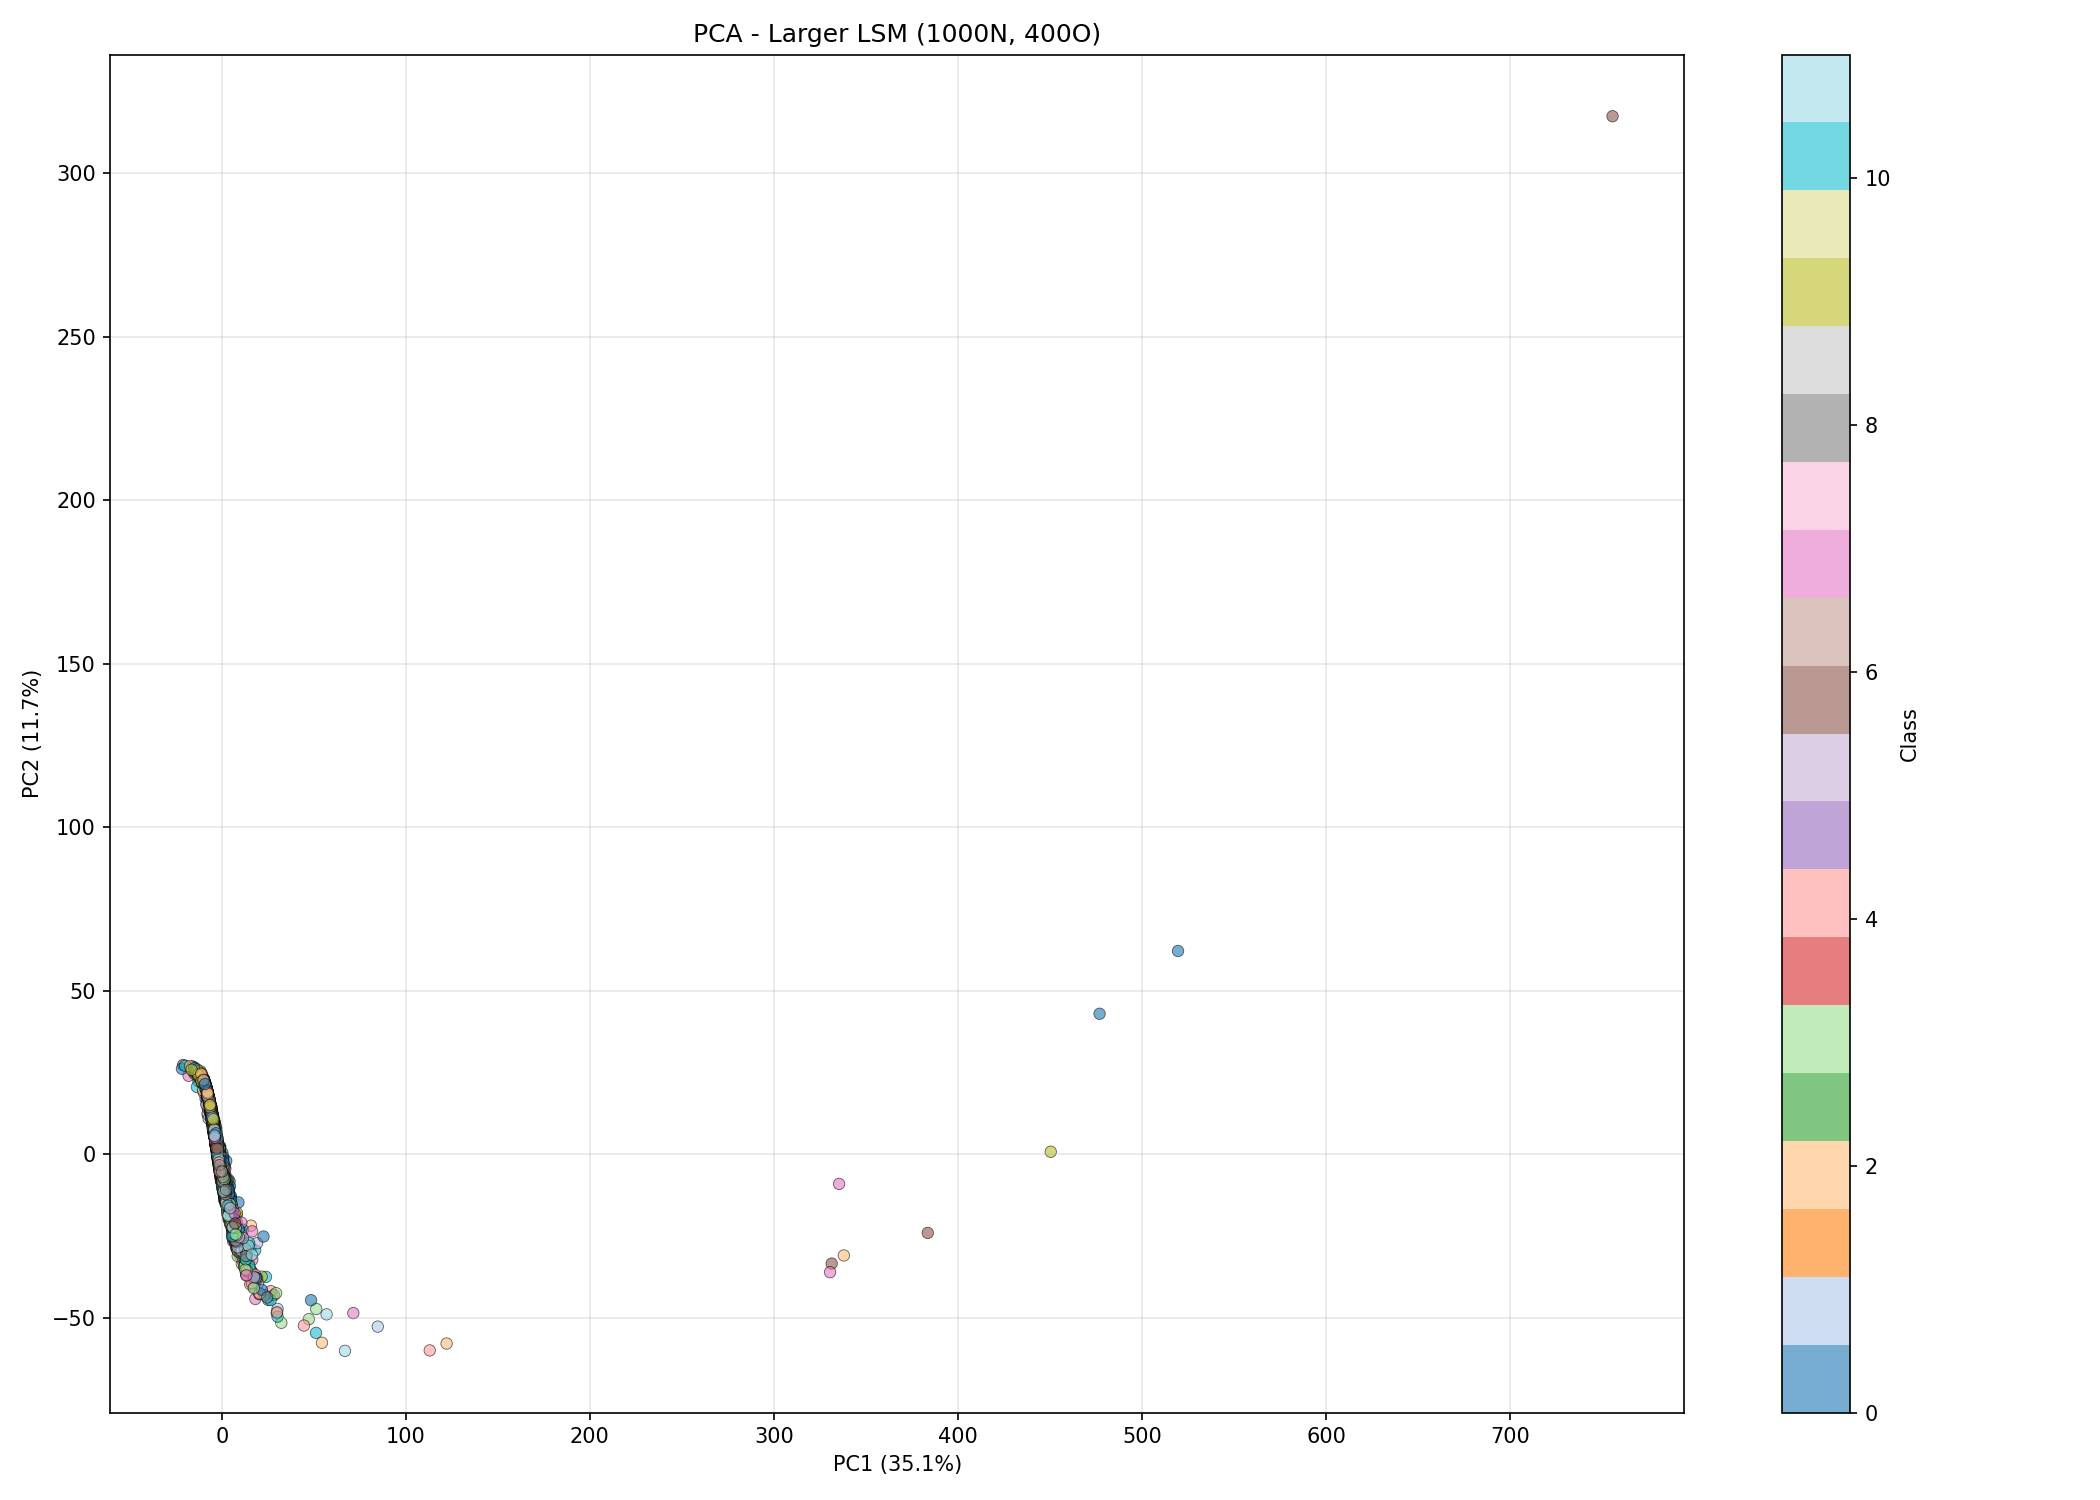
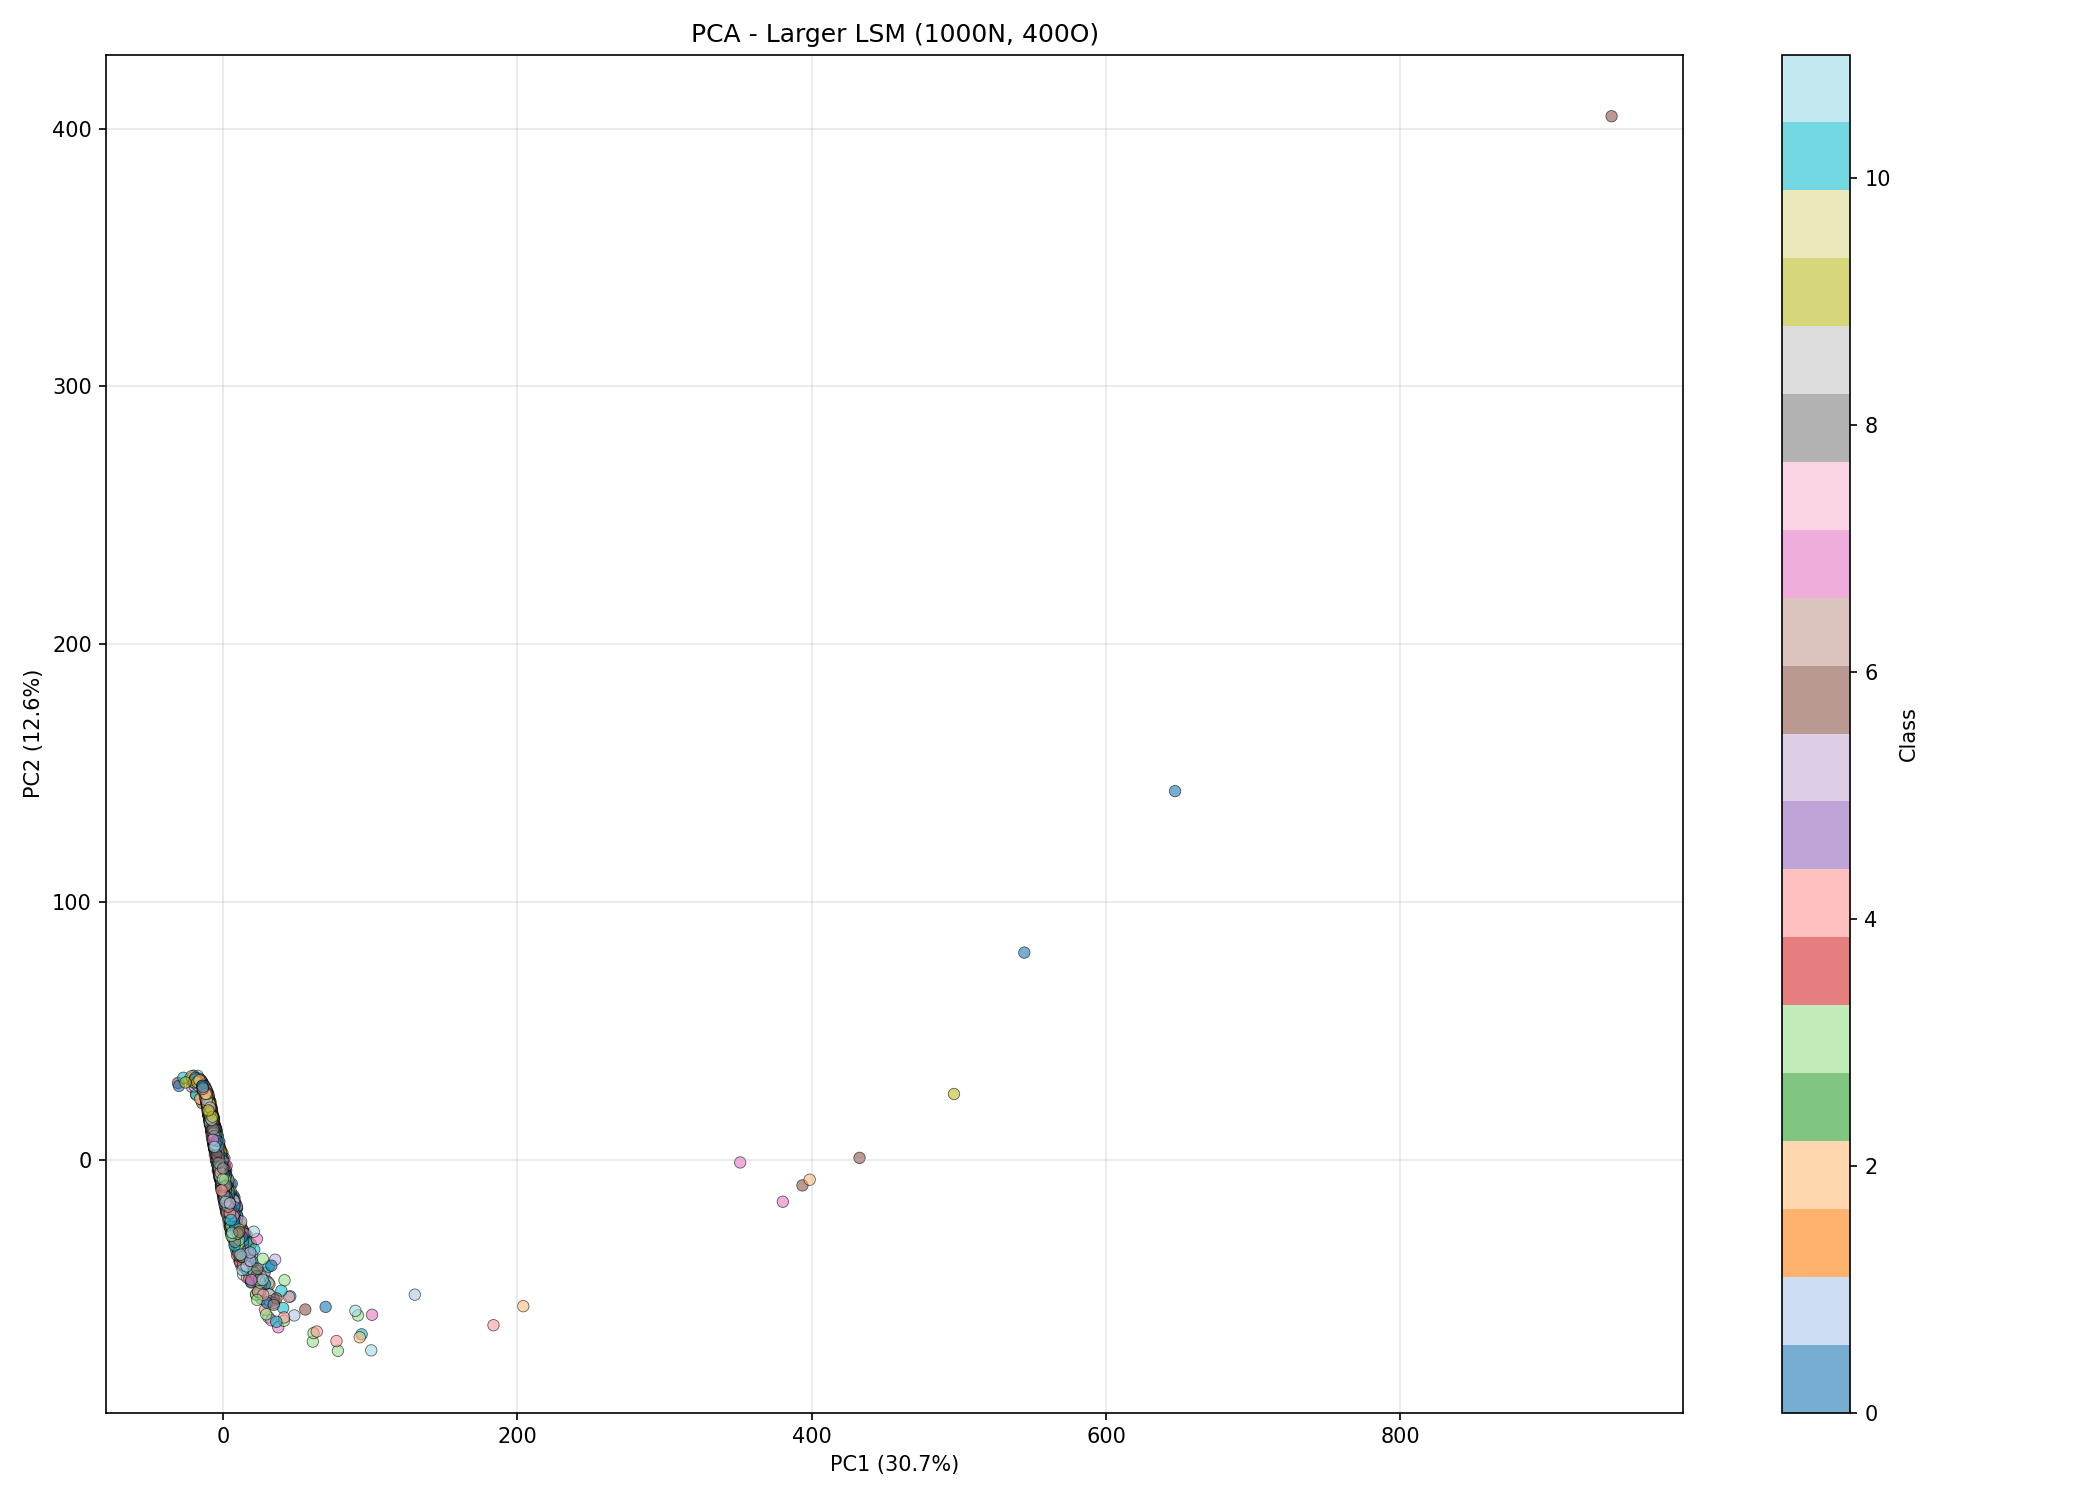
using all featuers

diff --git a/extract_lsm_features.py b/extract_lsm_features.py
@@ -6,31 +6,36 @@ from sklearn.preprocessing import StandardScaler
 import matplotlib.pyplot as plt
 from tqdm import tqdm
 from pathlib import Path
+import argparse
 
-# LARGER NETWORK for more complex representations
-NUM_NEURONS = 1000  # Increased from 1000
-NUM_OUTPUT_NEURONS = 400  # Increased from 400
+NUM_NEURONS = 1000
+NUM_OUTPUT_NEURONS = 400
 LEAK_COEFFICIENT = 0
 REFRACTORY_PERIOD = 4
 MEMBRANE_THRESHOLD = 2.0
 SMALL_WORLD_P = 0.2
-SMALL_WORLD_K = int(0.10 * NUM_NEURONS * 2)  
+SMALL_WORLD_K = int(0.10 * NUM_NEURONS * 2)
 
 BASE_MEAN_WEIGHT = 0.007
 WEIGHT_MULTIPLIERS = [1.0]
+
+FEATURE_SETS = {
+    'all': ['spike_counts', 'spike_variances', 'mean_spike_times', 'first_spike_times', 'last_spike_times', 'mean_isi', 'isi_variances', 'burst_counts'],
+    'rate': ['spike_counts', 'spike_variances', 'burst_counts'],
+    'timing': ['mean_spike_times', 'first_spike_times', 'last_spike_times'],
+    'rhythm': ['mean_isi', 'isi_variances'],
+    'original': ['spike_counts', 'spike_variances', 'mean_spike_times', 'mean_isi', 'isi_variances']
+}
 
 np.random.seed(42)
 
 def load_spike_dataset(filename="speech_spike_dataset_pure_redundancy.npz"):
     print(f"Loading '{filename}'...")
-    
-    # Try different dataset files in order of preference
     filenames_to_try = [
         "speech_spike_dataset_pure_redundancy.npz",
         "speech_spike_dataset_jittered.npz",
         "speech_spike_dataset_rate_coded.npz"
     ]
-    
     data = None
     for fname in filenames_to_try:
         if Path(fname).exists():
@@ -38,43 +43,35 @@ def load_spike_dataset(filename="speech_spike_dataset_pure_redundancy.npz"):
             data = np.load(fname)
             filename = fname
             break
-    
     if data is None:
         print("Error: No dataset found")
         return None, None
-    
     X_spikes = data['X_spikes']
     y_labels = data['y_labels']
     print(f"✅ Loaded {len(X_spikes)} samples, shape {X_spikes.shape}")
     print(f"   Avg spikes: {np.sum(X_spikes)/len(X_spikes):.1f}")
     return X_spikes, y_labels
 
-def extract_all_features(lsm, spike_data, desc=""):
+def extract_all_features(lsm, spike_data, feature_keys, desc=""):
     all_features = []
     all_active = []
-    
     for sample in tqdm(spike_data, desc=desc):
         lsm.reset()
         lsm.set_input_spike_times(sample)
         lsm.simulate()
-        
         feature_dict = lsm.extract_features_from_spikes()
         spike_counts = feature_dict["spike_counts"]
         all_active.append(np.count_nonzero(spike_counts))
-        
         parts = []
-        for key in ['spike_counts',"spike_variances", "mean_spike_times", "mean_isi", "isi_variances",]:
+        for key in feature_keys:
             if key in feature_dict:
                 vec = np.nan_to_num(feature_dict[key].copy(), nan=0.0, posinf=0.0, neginf=0.0)
                 vec[vec < 0] = 0
                 parts.append(vec)
-        
         all_features.append(np.concatenate(parts))
-    
     activity_pct = np.mean(all_active) / lsm.num_output_neurons * 100
     print(f"\n    Activity ({desc}): {activity_pct:.1f}%")
     print(f"    Active neurons: {np.mean(all_active):.1f}/{lsm.num_output_neurons}")
-    
     return np.array(all_features), activity_pct
 
 def quick_test_weight(X_sample, weight, num_samples=200):
@@ -92,21 +89,18 @@ def quick_test_weight(X_sample, weight, num_samples=200):
         input_spike_times=X_sample[0]
     )
     lsm = SNN(simulation_params=params)
-    
     active_list = []
     for sample in X_sample[:num_samples]:
         lsm.reset()
         lsm.set_input_spike_times(sample)
         lsm.simulate()
         active_list.append(np.count_nonzero(lsm.extract_features_from_spikes()["spike_counts"]))
-    
     return np.mean(active_list) / NUM_OUTPUT_NEURONS * 100
 
 def find_optimal_weight(X_train):
     print("\n" + "="*60)
     print("SEARCHING FOR OPTIMAL WEIGHT (Larger Network)")
     print("="*60)
-    
     results = []
     for mult in WEIGHT_MULTIPLIERS:
         weight = BASE_MEAN_WEIGHT * mult
@@ -115,7 +109,6 @@ def find_optimal_weight(X_train):
         results.append((mult, weight, activity))
         status = "✅" if 40 <= activity <= 75 else "⚠"
         print(f"{activity:.1f}% {status}")
-    
     best = min(results, key=lambda x: abs(x[2] - 55))
     print(f"\n📊 Selected: {best[0]:.2f}x, w={best[1]:.6f}, activity={best[2]:.1f}%")
     print("="*60 + "\n")
@@ -124,13 +117,10 @@ def find_optimal_weight(X_train):
 def check_separability(X_features, y_labels, output_file="pca_larger_lsm.png"):
     scaler = StandardScaler()
     X_scaled = scaler.fit_transform(X_features)
-    
     n_samples = min(3000, len(X_features))
     indices = np.random.choice(len(X_features), n_samples, replace=False)
-    
     pca = PCA(n_components=2)
     X_2d = pca.fit_transform(X_scaled[indices])
-    
     plt.figure(figsize=(14, 10))
     plt.scatter(X_2d[:, 0], X_2d[:, 1], c=y_labels[indices],
                cmap='tab20', alpha=0.6, s=30, edgecolors='k', linewidth=0.4)
@@ -146,19 +136,15 @@ def check_separability(X_features, y_labels, output_file="pca_larger_lsm.png"):
     plt.close()
     return scaler
 
-def main():
+def main(feature_set: str):
     X_spikes, y_labels = load_spike_dataset()
     if X_spikes is None:
         return
-    
     print(f"\nDataset: {X_spikes.shape}")
-    
     X_train, X_test, y_train, y_test = train_test_split(
         X_spikes, y_labels, test_size=0.2, random_state=42, stratify=y_labels
     )
-    
     optimal_weight, optimal_mult = find_optimal_weight(X_train)
-    
     print(f"Creating larger LSM ({NUM_NEURONS} neurons, {NUM_OUTPUT_NEURONS} outputs)...")
     params = SimulationParams(
         num_neurons=NUM_NEURONS,
@@ -175,17 +161,17 @@ def main():
     )
     lsm = SNN(simulation_params=params)
     
-    print("\nExtracting features...")
-    X_train_feat, train_act = extract_all_features(lsm, X_train, "Training")
-    X_test_feat, test_act = extract_all_features(lsm, X_test, "Testing")
+    feature_keys = FEATURE_SETS[feature_set]
+    print(f"\nExtracting feature set: '{feature_set}' ({len(feature_keys)} features)")
+    print(f"   Features: {feature_keys}")
+
+    X_train_feat, train_act = extract_all_features(lsm, X_train, feature_keys, "Training")
+    X_test_feat, test_act = extract_all_features(lsm, X_test, feature_keys, "Testing")
     
     print(f"\nFeatures: train={X_train_feat.shape}, test={X_test_feat.shape}")
-    
     scaler = check_separability(X_train_feat, y_train)
-    
     X_train_scaled = scaler.transform(X_train_feat)
     X_test_scaled = scaler.transform(X_test_feat)
-    
     output_file = "lsm_features_larger.npz"
     print(f"\nSaving to '{output_file}'...")
     np.savez_compressed(
@@ -199,11 +185,14 @@ def main():
         train_activity_pct=train_act,
         test_activity_pct=test_act
     )
-    
     print("\n✅ Complete!")
     print(f"Weight: {optimal_mult:.2f}x = {optimal_weight:.6f}")
     print(f"Activity: {train_act:.1f}% / {test_act:.1f}%")
     print(f"Feature dims: {X_train_feat.shape[1]}")
 
 if __name__ == "__main__":
-    main()
+    parser = argparse.ArgumentParser(description="Extract features from a spike train dataset using an LSM.")
+    parser.add_argument("--feature-set", type=str, default="all", choices=FEATURE_SETS.keys(),
+                        help="The set of features to extract (default: all).")
+    args = parser.parse_args()
+    main(feature_set=args.feature_set)
